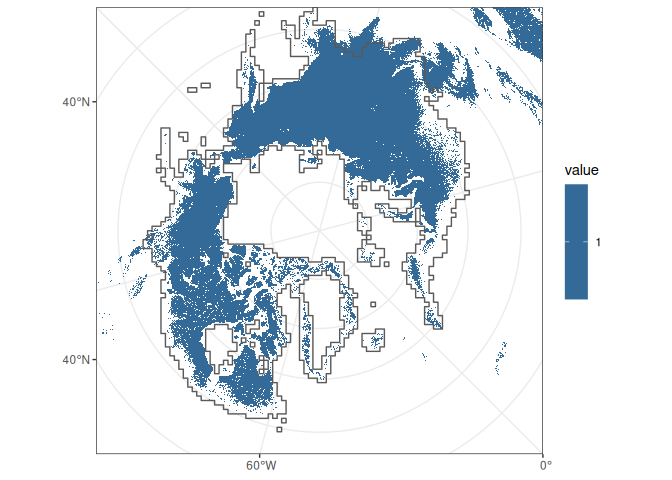
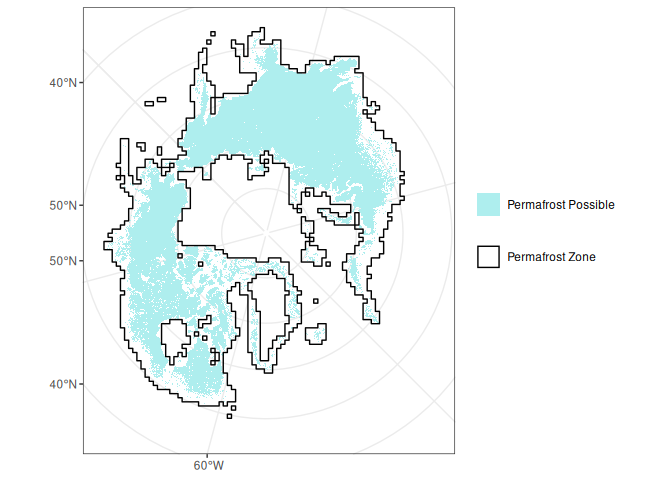
improves the permafrost zone map

diff --git a/domain/inference_domain.md b/domain/inference_domain.md
@@ -38,21 +38,34 @@ areas that fall within the Arctic boreal region and have some coverage
 of permafrost within a 100 x 100 km pixel.
 
 ``` r
-perm_prob[perm_prob > 0] = 1
-perm_prob[is.na(perm_prob)] = 0
-perm_prob_sf = perm_prob |>
+perm_prob = perm_prob |>
+  classify(
+    rcl = matrix(
+      c(0, 100, 1),
+      ncol = 3,
+      byrow = TRUE
+    )
+  ) |>
+  as.factor() |>
   crop(arctic_boreal) |>
-  mask(arctic_boreal) |>
+  mask(arctic_boreal)
+levels(perm_prob) = data_frame(id = c(1), permafrost = c("Permafrost Possible"))
+```
+
+    Warning: `data_frame()` was deprecated in tibble 1.1.0.
+    ℹ Please use `tibble()` instead.
+
+``` r
+perm_prob_sf = perm_prob |>
   aggregate(
     fact = 100,
     fun = any_ones
   ) |> # Check if there is any probability of permafrost within 100 km
   as.polygons() |>
   st_as_sf()
-perm_prob[perm_prob == 0] = NA
 ```
 
-    <SpatRaster> resampled to 501264 cells.
+    <SpatRaster> resampled to 500650 cells.
 
 ![](inference_domain_files/figure-commonmark/unnamed-chunk-15-1.png)
 
